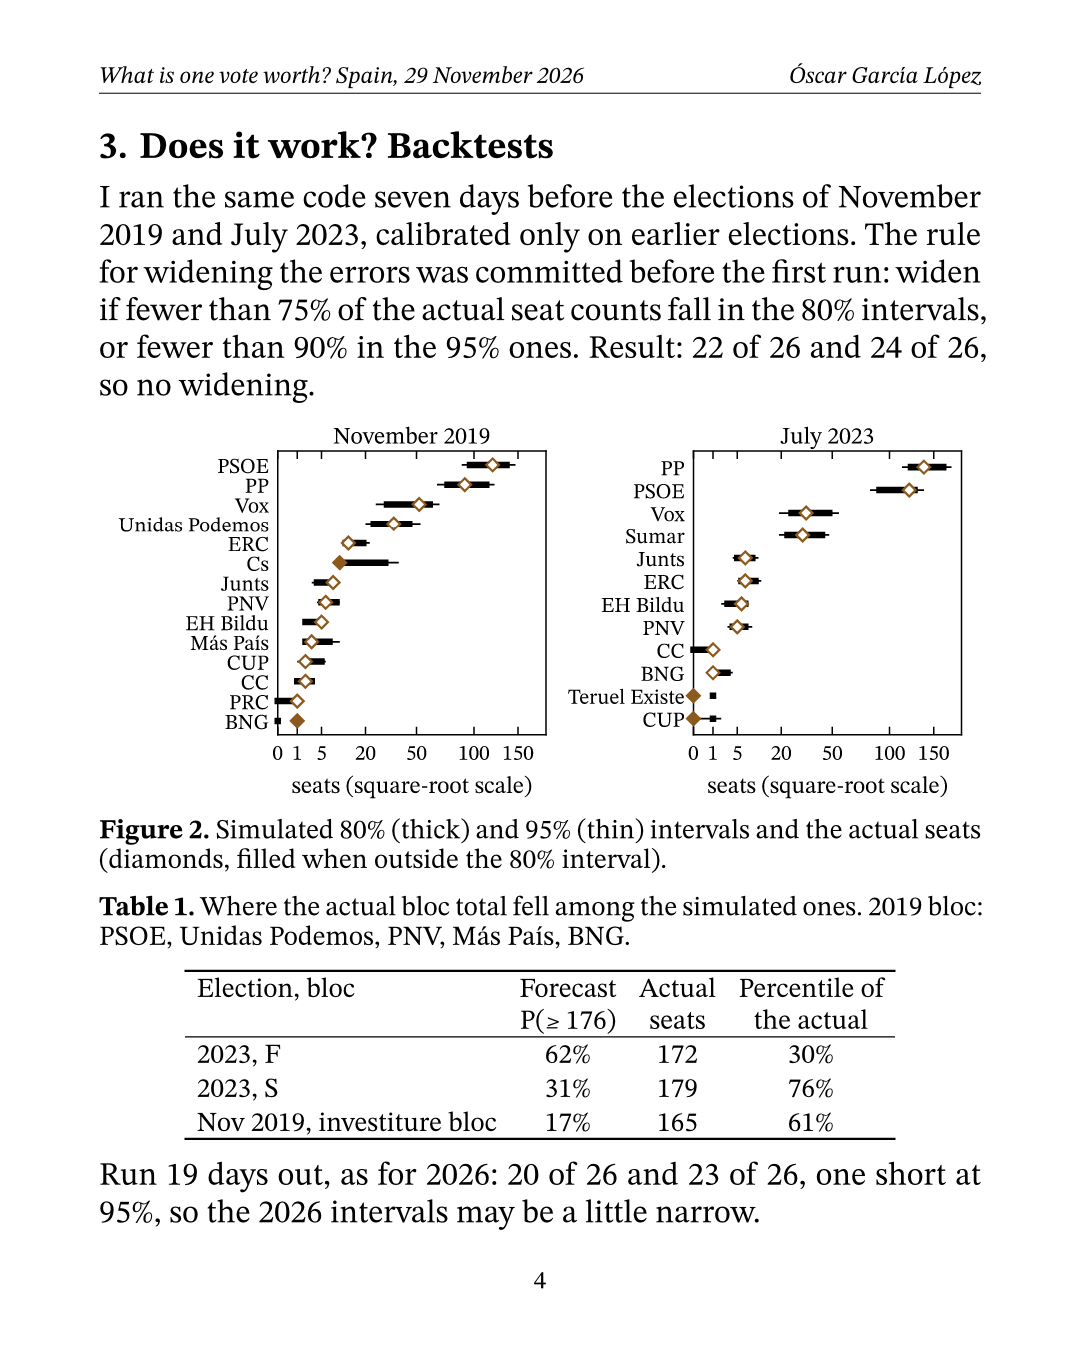
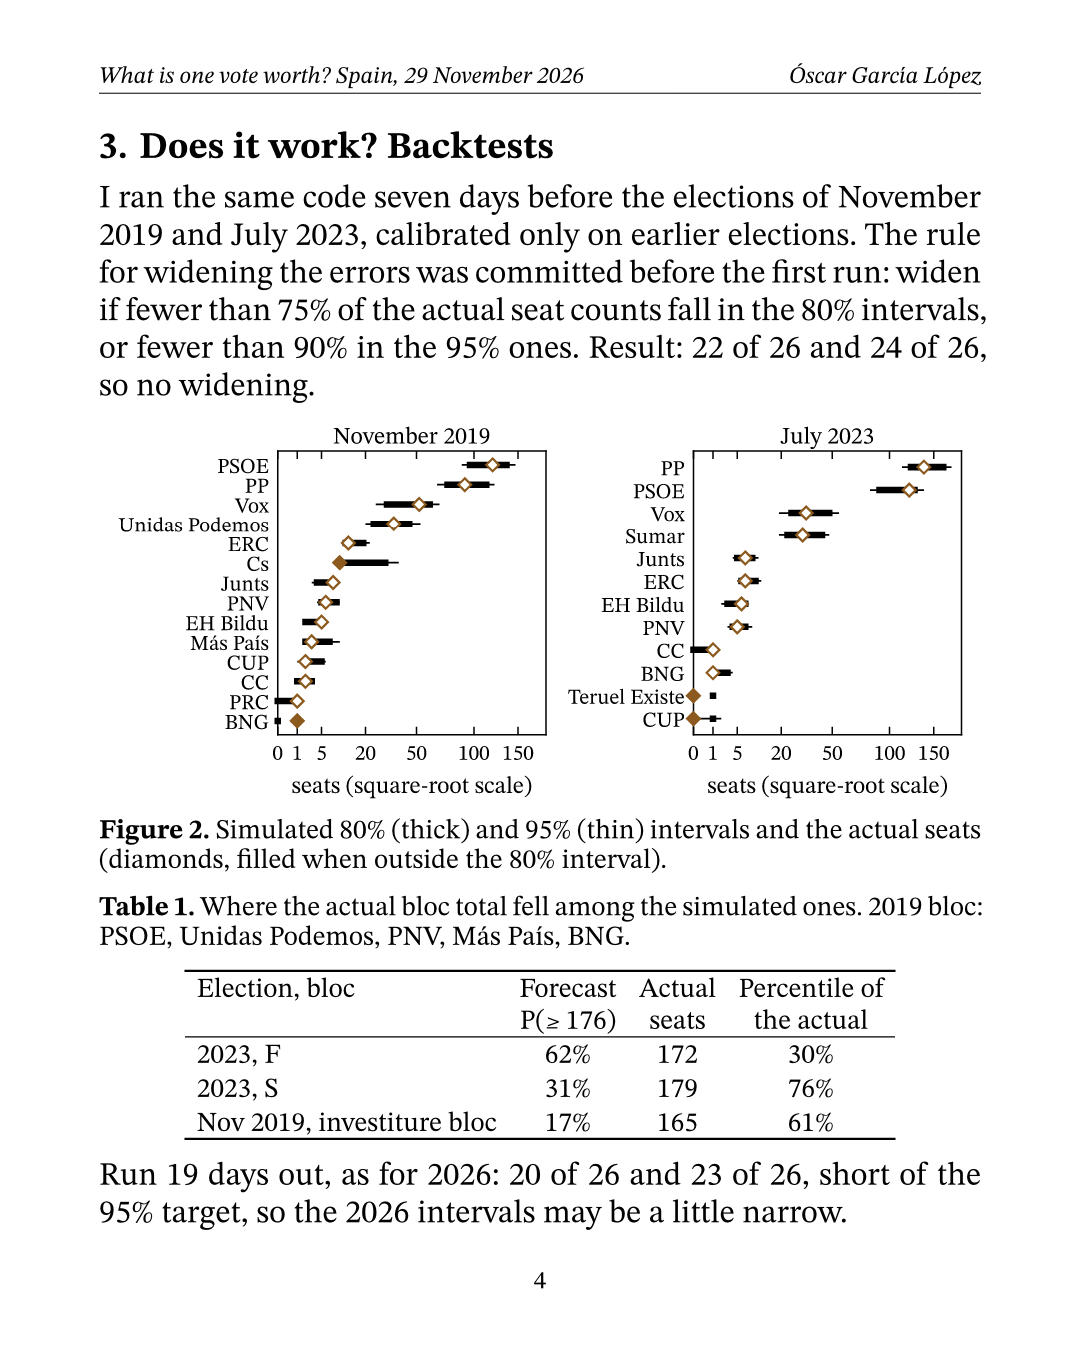
fix(carousel): wording follows the numbers on rerun
Claude-Session: https://claude.ai/code/session_01NphVvwiFzjXB7Pn6FkJmco

Changed region(s): [[0.1528, 0.84, 0.8861, 0.9333], [0.8861, 0.8711, 0.9167, 0.9022]]

diff --git a/src/spain_vote_ev/carousel.py b/src/spain_vote_ev/carousel.py
@@ -365,6 +365,19 @@ def fig_break_even(s: dict, f: dict, svg: Path, png: Path | None) -> list[str]:
 # --- the pages ------------------------------------------------------------------------------
 
 
+def compare(ratio: float, times: str | None, what: str) -> str:
+    """How a probability compares with a reference, in words that stay true on a rerun."""
+    if 2 / 3 < ratio < 3 / 2:
+        return f"close to the odds of {what}"
+    if ratio >= 3 / 2:
+        return f"about {times} times likelier than {what}" if times else f"likelier than {what}"
+    return f"less likely than {what}"
+
+
+def race(seats: str) -> str:
+    return "a one-seat race" if seats == "1" else f"with {seats} seats"
+
+
 def page_title(s: dict, f: dict, out: Path, png: Path | None) -> Page:
     pg = Page()
     pg.raw("#align(center)[\n  #v(2pt)\n"
@@ -372,14 +385,17 @@ def page_title(s: dict, f: dict, out: Path, png: Path | None) -> Page:
            f"  #text(14.5pt, style: \"italic\")[{T(SUBTITLE)}]\n  #v(8pt)\n"
            f"  #text(13pt)[{T(AUTHOR)}]\n  #v(-2pt)\n  #text(11.5pt)[{T(DATE)}]\n]",
            [TITLE, SUBTITLE, AUTHOR, DATE])
+    maj = s["vote"]["national"]["majority_any"]["one_in"]
     abstract = (
         f"I simulate Spain's election {f['n']} times from the polls to {f['cutoff']}, "
         "constituency by constituency, with errors measured on the same poll summary in "
         "past elections. For the average voter, one more vote changes a seat with probability "
         f"1 in {f['seat.one_in']}, and changes whether either 2023 investiture bloc reaches 176 "
-        f"seats with probability 1 in {f['majority_any.one_in']}: about {f['ratio_gse']} times "
-        "likelier than deciding the 2008 US presidency, and close to the odds of picking all "
-        "six numbers of 49. The numbers treat every list alike and advise no one.")
+        f"seats with probability 1 in {f['majority_any.one_in']}: "
+        + compare(s["context"]["gse_2012_one_in"] / maj, f["ratio_gse"],
+                  "deciding the 2008 US presidency") + ", and "
+        + compare(fx.LOTTERY / maj, None, "picking all six numbers of 49")
+        + ". The numbers treat every list alike and advise no one.")
     pg.raw("#v(4pt)\n#align(center, text(12.5pt, weight: \"bold\")[Abstract])\n#v(-3pt)\n"
            f"#pad(x: 1.0em)[#set text(12pt)\n#set par(leading: 0.45em)\n{T(abstract)}]",
            ["Abstract", P(abstract)])
@@ -470,8 +486,13 @@ def page_backtest(s: dict, f: dict, out: Path, png: Path | None) -> Page:
                f["bt.2019N.S.pctile"]]],
              caption="Where the actual bloc total fell among the simulated ones. 2019 bloc: "
                      "PSOE, Unidas Podemos, PNV, Más País, BNG.", n=1)
+    lead, rule = s["backtest"]["at_2026_lead"], s["backtest"]["rule"]["targets"]
+    short = [lvl for lvl, k in (("80%", "cov80"), ("95%", "cov95")) if lead[k] < rule[k]]
+    verdict = ("both targets met" if not short else
+               f"short of the {' and '.join(short)} target, so the 2026 intervals may be a "
+               "little narrow")
     pg.p(f"Run {f['lead']} days out, as for 2026: {f['bt_lead.in80']} and "
-         f"{f['bt_lead.in95']}, one short at 95%, so the 2026 intervals may be a little narrow.")
+         f"{f['bt_lead.in95']}, {verdict}.")
     return pg
 
 
@@ -503,10 +524,11 @@ def page_vote(s: dict, f: dict, out: Path, png: Path | None) -> Page:
               labels)
     pg.p(f"Small constituencies weigh more: {f['eps.min']} electors per seat in "
          f"{f['eps.min.name']}, {f['eps.max']} in {f['eps.max.name']}. "
-         f"{f['seat.top1']}, a one-seat race, is the most decisive (1 in "
-         f"{f['seat.top1.one_in']} for its seat, 1 in {f['majority_any.top1.one_in']} for "
-         f"the majority); for the majority, {f['majority_any.bottom1']} is the least, at "
-         f"1 in {f['majority_any.bottom1.one_in']}.")
+         f"{f['seat.top1']}, {race(f[f'prov.{f['seat.top1']}.seats'])}, is the most decisive "
+         f"(1 in {f['seat.top1.one_in']} for its seat, 1 in "
+         f"{f[f'prov.{f['seat.top1']}.majority']} for the majority); for the majority, "
+         f"{f['majority_any.bottom1']} is the least, at 1 in "
+         f"{f['majority_any.bottom1.one_in']}.")
     return pg
 
 
